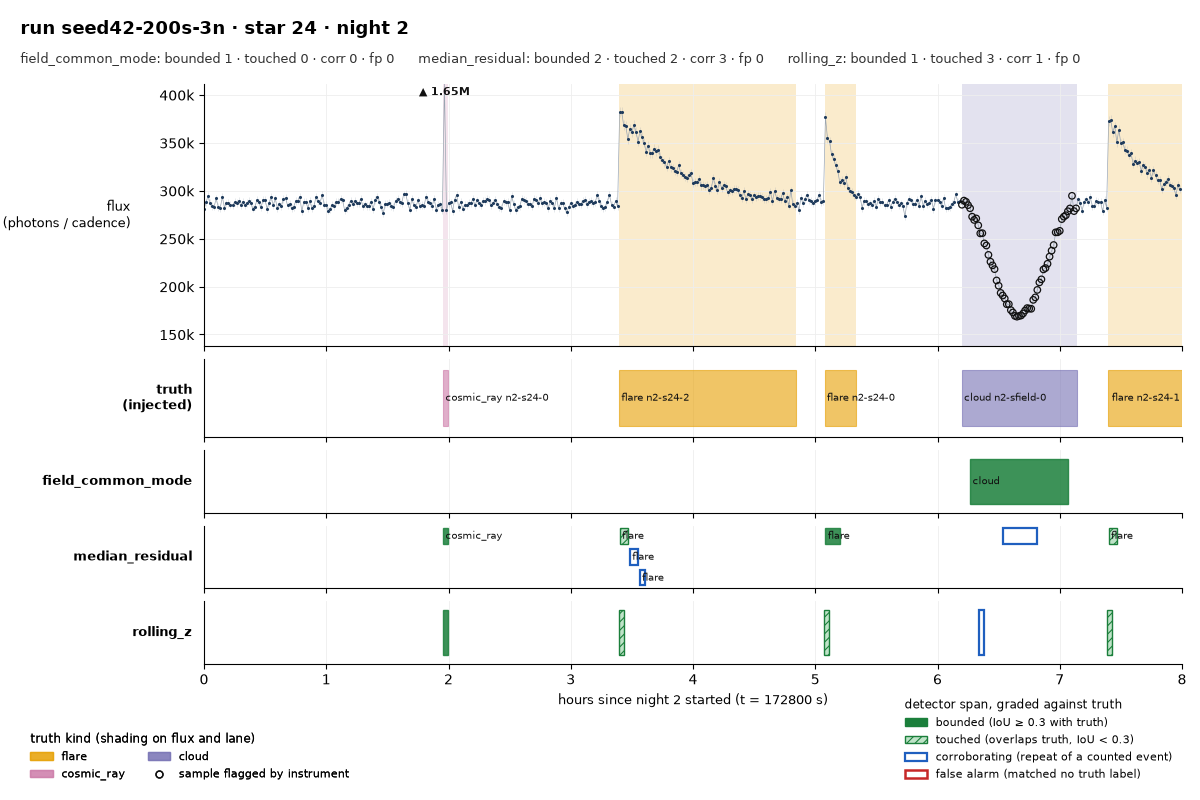
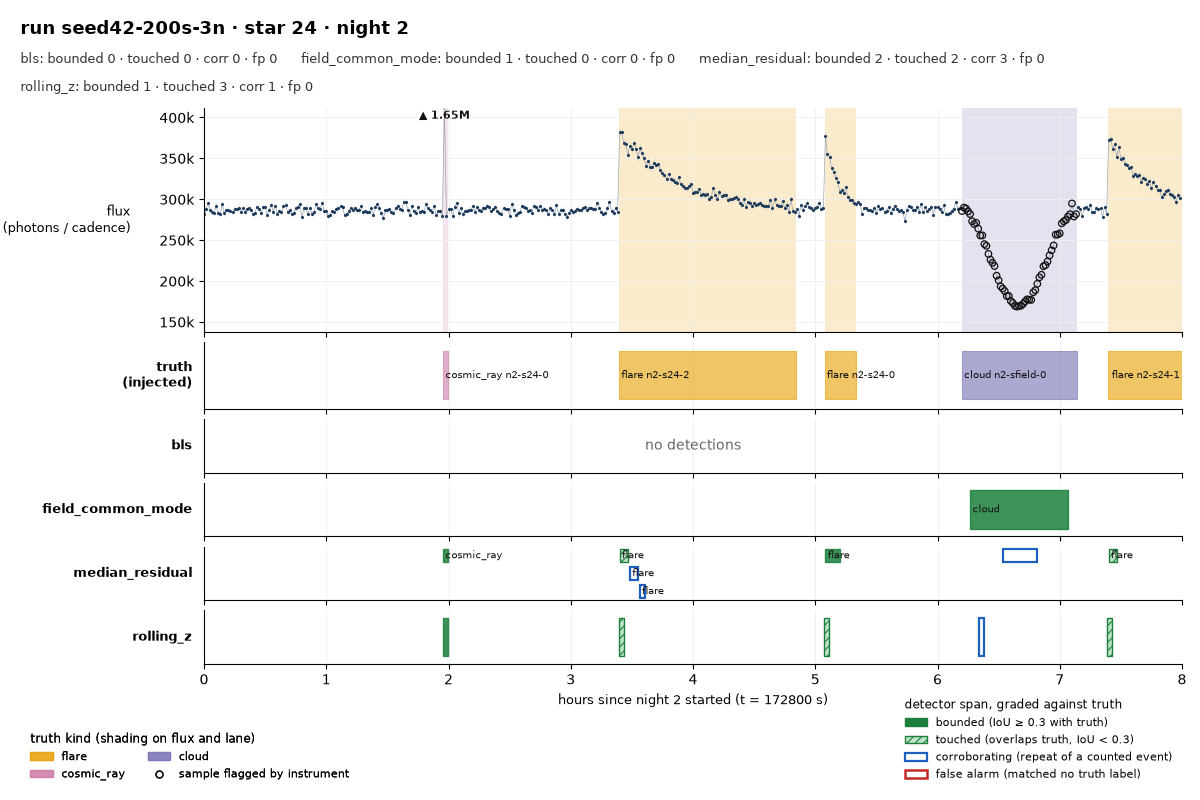
docs: build log 0007 (the page, the survey that could not be searched, and the first periodic find); README status with the bls picture; views and page regenerated with the bls lane; .nojekyll for Pages

diff --git a/docs/index.html b/docs/index.html
@@ -73,6 +73,7 @@ footer { margin-top: 40px; padding-top: 12px; border-top: 1px solid var(--rule);
 <p class="run-meta">seed 7 · 200 stars · 3 nights · 60 s cadence</p>
 <div class="table-wrap"><table id="all-seed7-200s-3n" class="all">
 <tr><th>detector</th><th>tpB</th><th>tpT</th><th>corr</th><th>fp</th><th>fn</th><th>unobs</th><th>P</th><th>R</th><th>F1</th><th>bounded</th></tr>
+<tr><td>bls</td><td>1</td><td>0</td><td>0</td><td>1</td><td>401</td><td>0</td><td>0.500</td><td>0.002</td><td>0.005</td><td>1.000</td></tr>
 <tr><td>field_common_mode</td><td>3</td><td>0</td><td>0</td><td>0</td><td>399</td><td>0</td><td>1.000</td><td>0.007</td><td>0.015</td><td>1.000</td></tr>
 <tr><td>median_residual</td><td>196</td><td>63</td><td>215</td><td>8</td><td>143</td><td>0</td><td>0.970</td><td>0.644</td><td>0.774</td><td>0.757</td></tr>
 <tr><td>rolling_z</td><td>174</td><td>96</td><td>193</td><td>5</td><td>132</td><td>0</td><td>0.982</td><td>0.672</td><td>0.798</td><td>0.644</td></tr>
@@ -81,6 +82,16 @@ footer { margin-top: 40px; padding-top: 12px; border-top: 1px solid var(--rule);
 <summary>Every kind</summary>
 <div class="table-wrap"><table id="kinds-seed7-200s-3n" class="kinds">
 <tr><th>detector</th><th>kind</th><th>tpB</th><th>tpT</th><th>corr</th><th>fp</th><th>fn</th><th>unobs</th><th>P</th><th>R</th><th>F1</th><th>bounded</th></tr>
+<tr><td>bls</td><td>cloud</td><td>0</td><td>0</td><td>0</td><td>0</td><td>2</td><td>0</td><td>0.000</td><td>0.000</td><td>0.000</td><td>0.000</td></tr>
+<tr><td>bls</td><td>cosmic_ray</td><td>0</td><td>0</td><td>0</td><td>0</td><td>177</td><td>0</td><td>0.000</td><td>0.000</td><td>0.000</td><td>0.000</td></tr>
+<tr><td>bls</td><td>dropout</td><td>0</td><td>0</td><td>0</td><td>0</td><td>2</td><td>0</td><td>0.000</td><td>0.000</td><td>0.000</td><td>0.000</td></tr>
+<tr><td>bls</td><td>eclipse</td><td>1</td><td>0</td><td>0</td><td>0</td><td>24</td><td>0</td><td>1.000</td><td>0.040</td><td>0.077</td><td>1.000</td></tr>
+<tr><td>bls</td><td>flare</td><td>0</td><td>0</td><td>0</td><td>0</td><td>79</td><td>0</td><td>0.000</td><td>0.000</td><td>0.000</td><td>0.000</td></tr>
+<tr><td>bls</td><td>hot_pixel</td><td>0</td><td>0</td><td>0</td><td>0</td><td>32</td><td>0</td><td>0.000</td><td>0.000</td><td>0.000</td><td>0.000</td></tr>
+<tr><td>bls</td><td>pulsation</td><td>0</td><td>0</td><td>0</td><td>0</td><td>75</td><td>0</td><td>0.000</td><td>0.000</td><td>0.000</td><td>0.000</td></tr>
+<tr><td>bls</td><td>tracking_drift</td><td>0</td><td>0</td><td>0</td><td>0</td><td>1</td><td>0</td><td>0.000</td><td>0.000</td><td>0.000</td><td>0.000</td></tr>
+<tr><td>bls</td><td>transit</td><td>0</td><td>0</td><td>0</td><td>1</td><td>9</td><td>0</td><td>0.000</td><td>0.000</td><td>0.000</td><td>0.000</td></tr>
+<tr class="all-kind"><td>bls</td><td>all</td><td>1</td><td>0</td><td>0</td><td>1</td><td>401</td><td>0</td><td>0.500</td><td>0.002</td><td>0.005</td><td>1.000</td></tr>
 <tr><td>field_common_mode</td><td>cloud</td><td>2</td><td>0</td><td>0</td><td>0</td><td>0</td><td>0</td><td>1.000</td><td>1.000</td><td>1.000</td><td>1.000</td></tr>
 <tr><td>field_common_mode</td><td>cosmic_ray</td><td>0</td><td>0</td><td>0</td><td>0</td><td>177</td><td>0</td><td>0.000</td><td>0.000</td><td>0.000</td><td>0.000</td></tr>
 <tr><td>field_common_mode</td><td>dropout</td><td>0</td><td>0</td><td>0</td><td>0</td><td>2</td><td>0</td><td>0.000</td><td>0.000</td><td>0.000</td><td>0.000</td></tr>
@@ -120,6 +131,7 @@ footer { margin-top: 40px; padding-top: 12px; border-top: 1px solid var(--rule);
 <p class="run-meta">seed 42 · 200 stars · 3 nights · 60 s cadence</p>
 <div class="table-wrap"><table id="all-seed42-200s-3n" class="all">
 <tr><th>detector</th><th>tpB</th><th>tpT</th><th>corr</th><th>fp</th><th>fn</th><th>unobs</th><th>P</th><th>R</th><th>F1</th><th>bounded</th></tr>
+<tr><td>bls</td><td>2</td><td>0</td><td>0</td><td>0</td><td>398</td><td>0</td><td>1.000</td><td>0.005</td><td>0.010</td><td>1.000</td></tr>
 <tr><td>field_common_mode</td><td>1</td><td>0</td><td>0</td><td>0</td><td>399</td><td>0</td><td>1.000</td><td>0.003</td><td>0.005</td><td>1.000</td></tr>
 <tr><td>median_residual</td><td>205</td><td>58</td><td>212</td><td>12</td><td>137</td><td>0</td><td>0.956</td><td>0.657</td><td>0.779</td><td>0.779</td></tr>
 <tr><td>rolling_z</td><td>184</td><td>92</td><td>196</td><td>13</td><td>124</td><td>0</td><td>0.955</td><td>0.690</td><td>0.801</td><td>0.667</td></tr>
@@ -128,6 +140,16 @@ footer { margin-top: 40px; padding-top: 12px; border-top: 1px solid var(--rule);
 <summary>Every kind</summary>
 <div class="table-wrap"><table id="kinds-seed42-200s-3n" class="kinds">
 <tr><th>detector</th><th>kind</th><th>tpB</th><th>tpT</th><th>corr</th><th>fp</th><th>fn</th><th>unobs</th><th>P</th><th>R</th><th>F1</th><th>bounded</th></tr>
+<tr><td>bls</td><td>cloud</td><td>0</td><td>0</td><td>0</td><td>0</td><td>1</td><td>0</td><td>0.000</td><td>0.000</td><td>0.000</td><td>0.000</td></tr>
+<tr><td>bls</td><td>cosmic_ray</td><td>0</td><td>0</td><td>0</td><td>0</td><td>181</td><td>0</td><td>0.000</td><td>0.000</td><td>0.000</td><td>0.000</td></tr>
+<tr><td>bls</td><td>dropout</td><td>0</td><td>0</td><td>0</td><td>0</td><td>1</td><td>0</td><td>0.000</td><td>0.000</td><td>0.000</td><td>0.000</td></tr>
+<tr><td>bls</td><td>eclipse</td><td>2</td><td>0</td><td>0</td><td>0</td><td>14</td><td>0</td><td>1.000</td><td>0.125</td><td>0.222</td><td>1.000</td></tr>
+<tr><td>bls</td><td>flare</td><td>0</td><td>0</td><td>0</td><td>0</td><td>58</td><td>0</td><td>0.000</td><td>0.000</td><td>0.000</td><td>0.000</td></tr>
+<tr><td>bls</td><td>hot_pixel</td><td>0</td><td>0</td><td>0</td><td>0</td><td>33</td><td>0</td><td>0.000</td><td>0.000</td><td>0.000</td><td>0.000</td></tr>
+<tr><td>bls</td><td>pulsation</td><td>0</td><td>0</td><td>0</td><td>0</td><td>105</td><td>0</td><td>0.000</td><td>0.000</td><td>0.000</td><td>0.000</td></tr>
+<tr><td>bls</td><td>tracking_drift</td><td>0</td><td>0</td><td>0</td><td>0</td><td>0</td><td>0</td><td>0.000</td><td>0.000</td><td>0.000</td><td>0.000</td></tr>
+<tr><td>bls</td><td>transit</td><td>0</td><td>0</td><td>0</td><td>0</td><td>5</td><td>0</td><td>0.000</td><td>0.000</td><td>0.000</td><td>0.000</td></tr>
+<tr class="all-kind"><td>bls</td><td>all</td><td>2</td><td>0</td><td>0</td><td>0</td><td>398</td><td>0</td><td>1.000</td><td>0.005</td><td>0.010</td><td>1.000</td></tr>
 <tr><td>field_common_mode</td><td>cloud</td><td>1</td><td>0</td><td>0</td><td>0</td><td>0</td><td>0</td><td>1.000</td><td>1.000</td><td>1.000</td><td>1.000</td></tr>
 <tr><td>field_common_mode</td><td>cosmic_ray</td><td>0</td><td>0</td><td>0</td><td>0</td><td>181</td><td>0</td><td>0.000</td><td>0.000</td><td>0.000</td><td>0.000</td></tr>
 <tr><td>field_common_mode</td><td>dropout</td><td>0</td><td>0</td><td>0</td><td>0</td><td>1</td><td>0</td><td>0.000</td><td>0.000</td><td>0.000</td><td>0.000</td></tr>
@@ -175,11 +197,13 @@ footer { margin-top: 40px; padding-top: 12px; border-top: 1px solid var(--rule);
 <h2>Regenerate</h2>
 <p>Everything on this page rebuilds from the seeds with these commands.</p>
 <pre>skywatch simulate --seed 7 --stars 200 --nights 3 --run-id seed7-200s-3n
+skywatch detect --run runs/seed7-200s-3n --detector bls
 skywatch detect --run runs/seed7-200s-3n --detector field_common_mode
 skywatch detect --run runs/seed7-200s-3n --detector median_residual
 skywatch detect --run runs/seed7-200s-3n --detector rolling_z
 skywatch score --run runs/seed7-200s-3n
 skywatch simulate --seed 42 --stars 200 --nights 3 --run-id seed42-200s-3n
+skywatch detect --run runs/seed42-200s-3n --detector bls
 skywatch detect --run runs/seed42-200s-3n --detector field_common_mode
 skywatch detect --run runs/seed42-200s-3n --detector median_residual
 skywatch detect --run runs/seed42-200s-3n --detector rolling_z

diff --git a/docs/log/0007-the-page-the-survey-that-could-not-be-searched-and-the-first-periodic-find.md b/docs/log/0007-the-page-the-survey-that-could-not-be-searched-and-the-first-periodic-find.md
@@ -1,0 +1,206 @@
+# 0007 — The page, the survey that could not be searched, and the first periodic find
+
+_2026-10-11. Orchestrating agent._
+
+Entry 0006 ended with hosting as the next decision, and that decision is
+Charles's. This session built the part of it that is the same under either
+answer, a generated page with the pictures beside the scoreboard (issue 26,
+PR #27), and then went to the detector every entry since 0005 had promised
+next: `bls` across nights for the shallow transits. The promise turned out to
+rest on a premise nobody had measured. The runs we score contain no transit a
+periodic search could find. So the session first built the instrument that
+says which planets are findable (issue 28, PR #29), used it to choose a survey
+on which the question can be asked, and then built `bls` and scored it there
+(issue 30, PR #31).
+
+## The page
+
+`skywatch site --spec docs/site.json` writes `docs/index.html`: a header, four
+sentences on how to read a picture, the headline view, each run's `all` rows
+with the per-kind table folded under them, the other views, and the exact
+commands that regenerate everything on the page. The spec is data (which runs,
+which views, the captions); the generator is code; the PNGs it renders go
+through the same `view` path and come out byte-identical to the committed
+ones, which the acceptance checked with `git status` after a regeneration.
+There is no JavaScript, no external asset, and no timestamp, so two
+generations from the same runs are the same bytes.
+
+I chose a generated page over a hand-written one because a hand-written
+scoreboard drifts from `report` the first time the scorer changes, and the
+scorer has changed in four of six entries. The alternative I did not take was
+rendering the page in CI from the seeds: it would prove the committed page is
+regenerable, but the PNG bytes depend on the pinned matplotlib and its font
+build, and a check that goes red on a font difference is a toll, not a guard.
+The regeneration stays a command a person runs.
+
+Hosting itself is still Charles's call, and the measured facts that bear on
+it are now on the project note: a fresh 200-star, 3-night seed simulates,
+runs all three detectors, scores and renders its pick in about five seconds
+and 3.5 MB; the home server is on the LAN only, so a server that renders any
+seed is a public process somewhere else; and a dozen seeds pre-rendered
+statically would cost about a minute of compute and about a megabyte of PNG,
+which is most of the "any seed" feeling with nothing running.
+
+## The survey that could not be searched
+
+The design says `bls` "should be the only thing that finds shallow transits",
+and 0005 put a number on what the others miss: transit recall 0.11 to 0.20.
+Before speccing `bls` I had the transit population of the two stored runs read
+out of the truth and planet tables, with each event's matched-filter S/N
+(`depth * sqrt(sum(profile^2)) / sigma`, where `sigma` is the star's own
+per-sample noise, floor and photon term together) and each planet's stacked
+S/N across its events.
+
+| run | planets | with 2+ events | best recurring stacked S/N | best single event |
+| --- | --- | --- | --- | --- |
+| seed7-200s-3n | 34 | 1 (star 11) | 0.1 | star 185, one event, 10.1 |
+| seed42-200s-3n | 25 | 1 (star 49) | 1.7 | star 58, one event, 2.1 |
+
+Nothing periodic is there to find. The 0.20 recall on seed 42 was two
+unrelated spikes overlapping one night-long clipped label, not a found
+transit. Across seeds 0 to 99 the default 200-star field holds a planet with
+two or more in-night events at stacked S/N 7 or better in 21% of 3-night runs
+(0.24 per run), 83% of 10-night runs (1.48) and 99% of 20-night runs (3.24).
+The planets a periodic search can confirm at 3 nights have periods of a day
+or less, because eight hours of sky per day gives a longer planet one chance
+in three of landing in a night at all; lengthening the survey adds longer
+periods, not shallower depths. Single events above S/N 7 are plentiful at every
+length (1.3 per 3-night run), which is a different detector's job.
+
+I had three ways to go and took the first. Keep the world's planet laws and
+survey two more nights-counts of the same seeds: a 20-night run of each seed
+is the transit bench, the 3-night runs keep every published number, and a
+20-night run costs about 45 seconds to simulate, detect three ways and score,
+and 12 MB on disk. The second way was to raise `planet_rate` or shorten the
+period range so 3-night runs had something to find; that bends the world
+toward the detector, and the design records the planet population as a law
+of the world. The third was to build the single-transit box search instead,
+since that population exists on every run; the design names `bls` first and
+the single-event search is a separate claim with its own false-alarm problem,
+so it stays on the list.
+
+The instrument went in first as `skywatch planets --run <dir>`, one row per
+planet with its events and stacked S/N, because a target quoted from an
+estimate in an issue is a memory, and a command on the stored run is a fact.
+On the 20-night runs it names the bench:
+
+| run | star | period d | depth | dur h | events | stacked S/N |
+| --- | --- | --- | --- | --- | --- | --- |
+| seed7-200s-20n | 138 | 8.012 | 0.01600 | 3.51 | 2 | 40.8 |
+| seed7-200s-20n | 185 | 4.240 | 0.01424 | 6.00 | 3 | 19.5 |
+| seed7-200s-20n | 82 | 3.191 | 0.00601 | 3.21 | 3 | 16.4 |
+| seed7-200s-20n | 163 | 8.733 | 0.00527 | 3.64 | 2 | 9.1 |
+| seed42-200s-20n | 119 | 4.254 | 0.00756 | 5.58 | 2 | 19.4 |
+| seed42-200s-20n | 164 | 1.283 | 0.00309 | 2.85 | 7 | 5.4 |
+
+The current detectors on those runs touch transits only by accident
+(seed 7: median_residual 1 bounded and 10 touched of 70 labels, rolling_z 8
+touched; seed 42: 11 touched of 47 each; the field detector none). The S/N the
+tool reports counts instrument-flagged samples, so it is an upper bound for a
+detector that drops them; the design says so.
+
+## `bls`, and what it found
+
+`bls` folds each star's whole record at trial periods from half a day to half
+the baseline, uniform in frequency with a relative step of a third of the
+shortest duration over the baseline (8,247 periods at 20 nights), tries box
+durations from half an hour to six hours, and reports the best box when its
+S/N is 7 or more and its predicted windows cover samples on at least two
+nights. It emits one detection per predicted in-night event, so each event
+can be graded against its own label, and one candidate per star. The issue
+left three mechanisms to the builder and the builder needed two more than the
+issue named, each of which the review then switched off one at a time on
+seed 7 to see what it carried:
+
+| gate | what it does | with it off (seed7-200s-20n) |
+| --- | --- | --- |
+| field common-mode division | divide every star by the field's per-time median before folding | 0 detections; every planet lost, because a held drift or cloud wing the quality flag does not cover is the deepest "transit" on every star |
+| local S/N | score the box as a within-night contrast as well as a whole-record one | 42 detections, 14 false alarms; the night-median normalisation makes 4 to 6 h boxes in 8 h nights look like S/N 8 to 12 on planet-free stars |
+| two nights at 2 sigma | each of two nights must show the dip on its own | no change on this run |
+| box versus sine | reject when a sinusoid fits at least as well as the box | 19 pulsations reported as transits |
+| residual sinusoid | reject when a sinusoid still stands out after the box is subtracted | 100 eclipses and 3 pulsations reported as transits |
+
+The two halves of the pulsation guard are not redundant: one stops pulsators,
+the other stops eclipsing binaries, whose second eclipse is what the box
+leaves behind. The false-alarm column cannot see either of them, because a box
+that lands on a pulsation or an eclipse is a true positive of that kind in the
+scorer; only the confusion rows show the guard working.
+
+What it finds:
+
+| run | transit tp (all bounded) | fp | what they are |
+| --- | --- | --- | --- |
+| seed7-200s-20n | 7: stars 82 and 185, every event (IoU 0.68 to 0.95), plus one event on star 189 | 2 | star 189's claimed partner event, and a flare star (175) |
+| seed42-200s-20n | 4: star 119 both events (IoU 0.87 and 0.86), plus one event each on stars 24 and 83 | 3 | star 24's claimed partner event, and a flare star (156) twice |
+| seed7-200s-3n | 0 | 1 | the eclipsing binary star 143: one window bounds an eclipse, the other predicts one where none is labelled |
+| seed42-200s-3n | 0 | 0 | the eclipsing binary star 0: both windows bound eclipses |
+
+The extra true positives on stars 189, 24 and 83 deserve a plain
+description. Each is a planet with exactly one observed transit (stacked S/N
+24.3, 8.5 and 14.8), which a periodic search cannot confirm; `bls` paired the
+real dip with a second window that holds nothing (189, 24) or a tracking
+drift (83), and reported the pair as a period. The scorer grades per event, so
+it credits the real dip and books the phantom as a false alarm or a touched
+drift, and says nothing about the period being wrong. That is the right grade
+for each span and the wrong grade for the claim; the scorer has no notion of
+a planet, and I have left it that way for now rather than invent a periodic
+match rule on three cases. The 3-night runs show the other face of the same
+thing: each has one eclipsing binary the residual test cannot reject with
+three nights, reported as a transit at the binary's period, and the scorer
+books those windows as bounded eclipses detected as `transit`, which is
+exactly what they are.
+
+Star 185 is the picture: a 1.4% dip over five and a half hours on a star
+whose noise is 1.7% per sample, invisible to every per-night detector,
+bounded by `bls` on each of its three nights. Star 119 on seed 42 is the same
+story at 0.76%. No sinusoidal star is reported as a transit on any run, and on the 20-night runs no eclipse is.
+
+Two confirmable planets are not found, and the acceptance line for one of
+them is not met. Star 138 is an eclipsing binary with a 28% primary eclipse
+every four days and a 1.6% planet every eight; the binary is the star's best
+box at S/N 361, the residual test rejects it, and with one candidate per star
+the planet is never searched. The review masked the eclipses on its own side
+and the same search returned the planet at 8.016 days and S/N 38.9. Star 163
+is a flare star whose best box is noise at S/N 6.0 on the local test; the
+real planet at S/N 9.1 is never the best box. I landed the detector with both
+losses disclosed and filed the second pass as issue 32 (re-search a star once
+after its best box is rejected), rather than hold the PR to recover 138 now:
+the issue had scoped a second signal on one star out, the mechanism is a
+separate claim with its own acceptance, and the two 20-night runs already
+show what the single pass can and cannot do. The alternative, folding the
+second pass into this PR, would have landed an untested interaction between
+the guard and the re-search in the same change as the guard.
+
+The grid reading is worth a line. The issue wrote the frequency step as
+`(min_duration / baseline) / oversample`, which as a step in cycles per day
+is not dimensionally a frequency; the builder read it as a relative step, so
+periods are log-uniform in frequency, and the review confirmed that is the
+standard criterion: the last event's predicted time moves by a third of the
+shortest duration at every period, where the literal reading would have
+moved it by 96 minutes at 9.6 days.
+
+## What the reviews cost and found
+
+| PR | mutations | red | survivors that got a test | behavioural defects |
+| --- | --- | --- | --- | --- |
+| #27 site | 46 | 29 | 9 (pick honoured, duplicate files, empty spec, path forms, page-after-pictures, regenerate `--out`, ordering, meta line) | 1: `--out` was validated after the pictures were drawn, so a bad target left PNGs behind and a traceback |
+| #29 planets | 41 | 33 | 3 (`--min-snr` on the right field, the summary threshold at exactly 7, samples from the label's own star) | 0; 118 planets recomputed independently to 4e-15 |
+| #31 bls | 43 | 33 | 10 (guard band, robust sigma, defaults, a half-hour transit at 9.6 days, the low end of the period range, unsorted durations) | 0; four gate counterfactuals and the star 138 oracle |
+
+Every survivor's test was confirmed red under its mutation before landing.
+The #27 review's remaining green was equivalent (a suffix check that a later
+check repeats). Three new tests on #29 came from a reviewer who noticed the
+fixture had no planet between S/N 5 and 7, which is exactly where the summary
+line's threshold lives; a fixture that never crosses a threshold cannot pin
+it.
+
+## Standing
+
+`main` is `c2652cc` with 583 tests. Four runs are stored: the two
+3-night surveys every number since 0002 comes from, and 20-night surveys of
+the same seeds on which `bls` is scored. The page is generated and committed, regenerated after `bls` so every view carries its lane;
+publishing it is Charles's decision, with the costs on the project note.
+Issue 32 (the second pass) is specced with its targets. The single-transit
+box search, the 3-night eclipsing binaries the residual test cannot reject,
+and adding the 20-night scoreboard to the page are the next three things
+worth doing, in that order.

diff --git a/README.md b/README.md
@@ -54,8 +54,22 @@ a single static page with this picture and two more beside the scoreboard.
 picture and the finding it produced: fragments of an event a detector had
 already found were being booked as false alarms, and now corroborate instead.
 
-Every issue filed so far is closed. Next: hosting, then `bls` across nights for
-the shallow transits every detector still misses.
+`skywatch site --spec docs/site.json` generates [docs/index.html](docs/index.html),
+the committed views beside each run's scoreboard, regenerable from the seeds
+with the commands it prints. `skywatch planets` lists which planets in a run a
+periodic search could find, and it showed that the 3-night runs hold none, so
+20-night surveys of the same seeds are the bench for `bls`, the box least
+squares search across nights.
+[0007](docs/log/0007-the-page-the-survey-that-could-not-be-searched-and-the-first-periodic-find.md)
+records the page, the measurement and the detector:
+`bls` bounds every event of every confirmable planet on the 20-night runs
+except a planet on an eclipsing binary (issue #32), and finds a 1.4% dip over
+five hours that no per-night detector sees:
+[seed 7, star 185, night 6](docs/img/seed7-bls-star185-night6.png).
+
+![seed 7, star 185, night 6](docs/img/seed7-bls-star185-night6.png)
+
+Open: hosting (the page is built; publishing it is the owner's call) and #32.
 
 ## Develop
 
